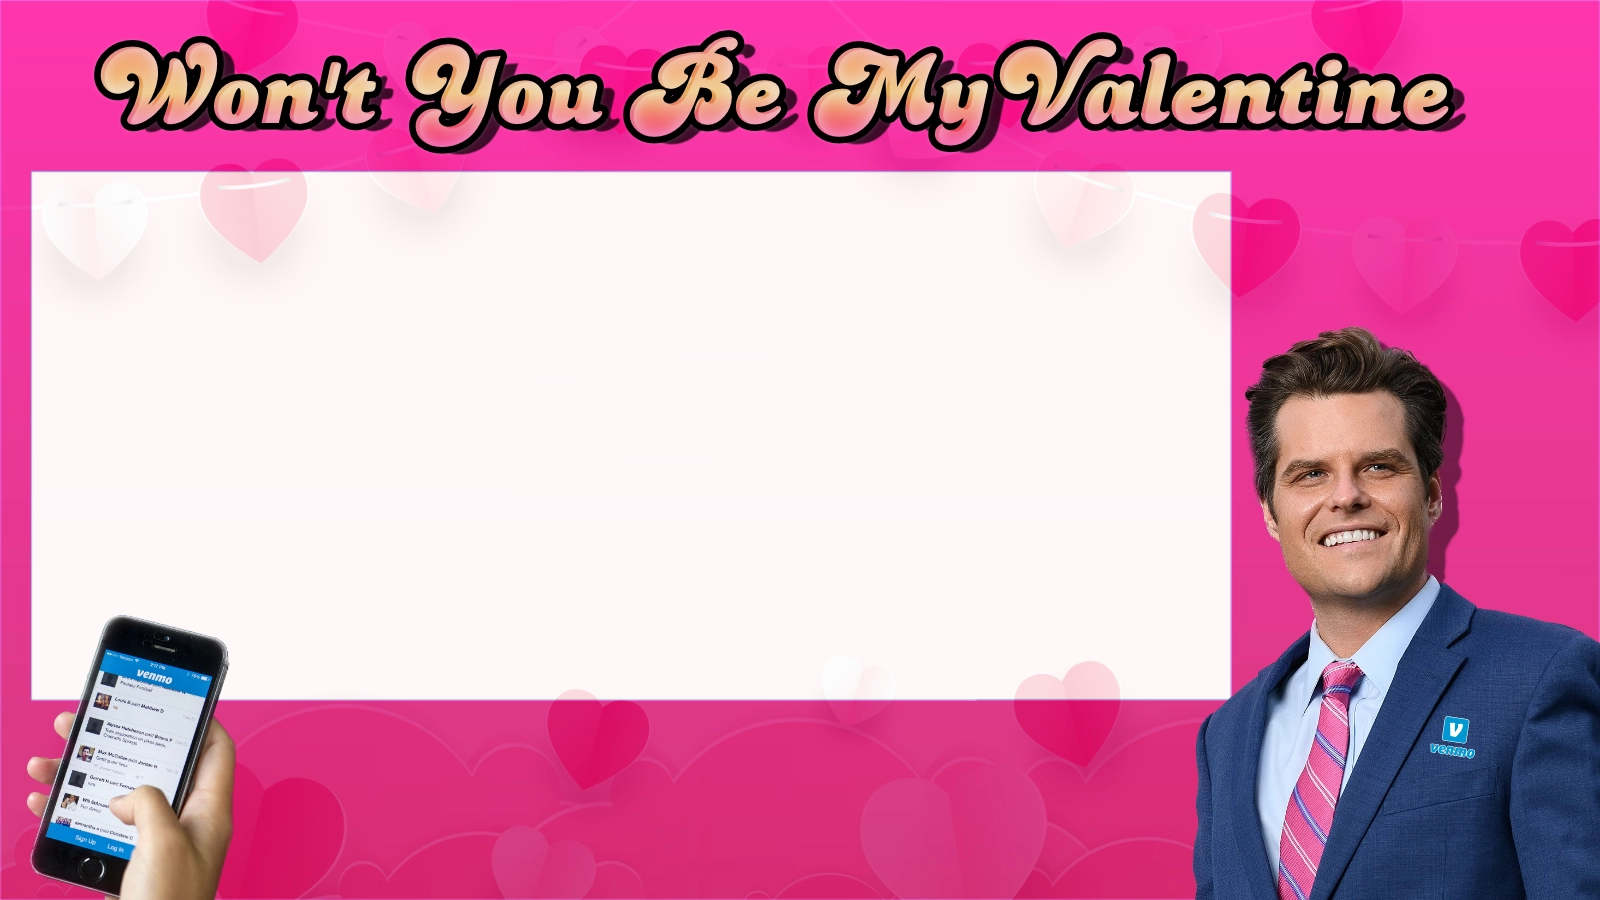
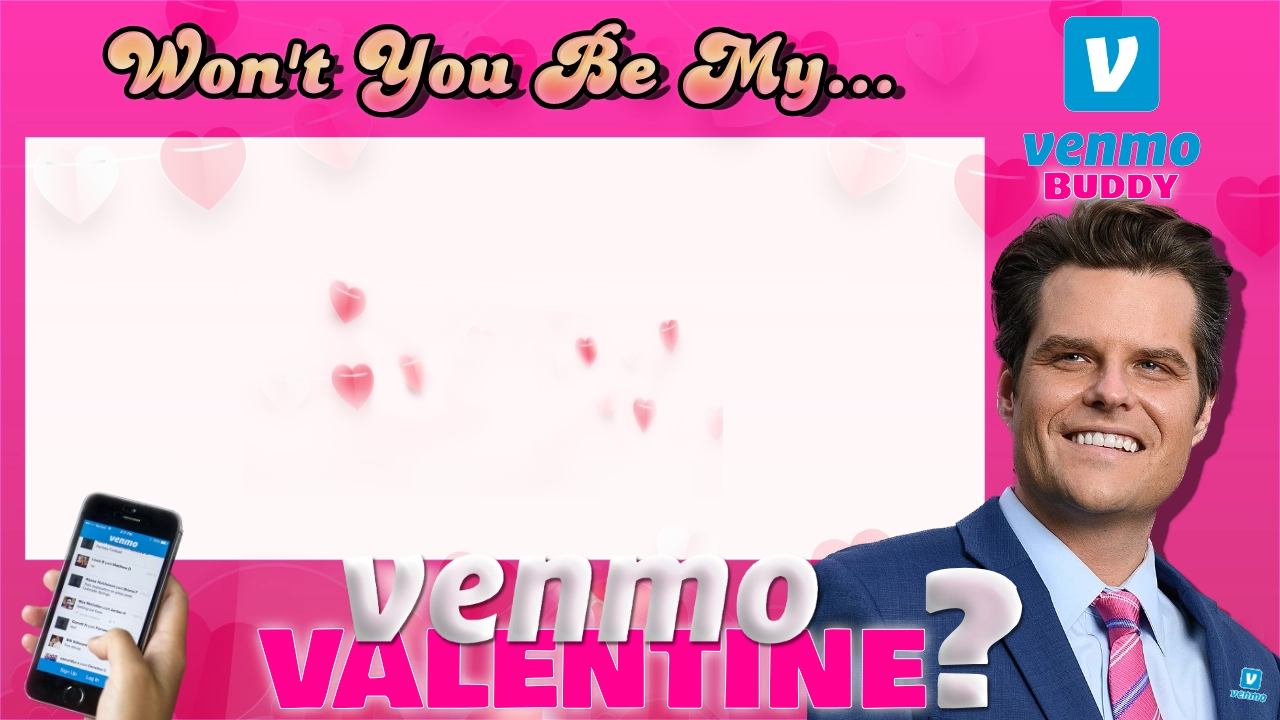
matt updated

diff --git a/src/templates/blog-post.js b/src/templates/blog-post.js
@@ -1295,8 +1295,8 @@ zindex:'1'
   <div className="article-header" style={{textAlign:'center', paddingTop:'1rem', height:'auto', color:'', borderRadius:'12px'}}>
     
             <h1 className="headline panel" style={{color:'#ddd', borderRadius:''}}>{frontmatter.title}</h1>
-            <time sx={{color: "muted"}}>{frontmatter.date}</time>
-            Posted: <TimeAgo date={frontmatter.date} style={{color:''}} />
+            <time sx={{color: ""}}>{frontmatter.date}</time>
+            Posted: <TimeAgo date={frontmatter.date} style={{color:'inherit !important'}} />
            
            {/* <Link to={`/category/${frontmatter.category}`}>Category:{frontmatter.category}</Link>
 

diff --git a/src/components/siteLayout.jsx b/src/components/siteLayout.jsx
@@ -403,9 +403,9 @@ const fontUrl = "https://fonts.googleapis.com/css?family=" + font1.replace(/\s+/
 
 {showSearch ? (
 <div className="searchIcon">
-   <Link aria-label="search" to="/search/" style={{display:'flex', flexDirection:'column', justifyContent:'center', alignItems:'center', marginTop:'0px', textAlign:'center'}}>
+   <Link className="themetext" aria-label="search memegenes" to="/search/" style={{display:'flex', flexDirection:'column', justifyContent:'center', alignItems:'center', marginTop:'0px', textAlign:'center'}}>
     <SearchIcon style={{height:'30px'}} />
-    <span className="themetext">search</span>
+    search
    </Link>
         </div>
       ) : (

diff --git a/src/gatsby-plugin-theme-ui/index.js b/src/gatsby-plugin-theme-ui/index.js
@@ -26,7 +26,7 @@ const theme = {
         background: "",
         primary: "var(--primary)",
         accent: "#5C2941",
-        muted: "rgba(0, 0, 0, 0.2)",
+        muted: "rgba(255, 255, 255, 0.5)",
         // cardBg: "linear-gradient(180deg, rgba(13, 11, 11, 0.8) 12%, rgba(19, 20, 22, 0.9) 80%)",
         cardBg: "",
         textShadow: "rgba(0, 0, 0, 0.99)",

diff --git a/src/content/posts/venmo-valentine.md b/src/content/posts/venmo-valentine.md
@@ -1,9 +1,9 @@
 ---
 template: blog-post
-title: Matt Stopped by local highschool before CPAC
-slug: /matt-venmo
-date: 2023-08-01 22:00
-description: Hit Me Up On My Venmo, YO!
+title: Matty the "Venmo Valentine" wants to be your Venmo buddy - BFFs 4 EVAR!
+slug: /venmo-valentine
+date: 2023-09-05 22:00
+description: Matt Stopped by local highschool before CPAC
 youtube:
  youtuber: "https://youtu.be/9S_Q0h8Dz5c"
  youtuber2: 
@@ -28,7 +28,7 @@ youtubeautostart: false
 youtubeloop: true
 isnftforsale: false
 svgzindex: "0"
-comments: true
+comments: false
 shareable: true
 underlayImage: /assets/matt-venmo-underage-girls-background.webp
 featuredImage: /assets/matt-gaetz-venmo-promo.webp
